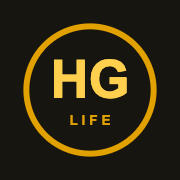
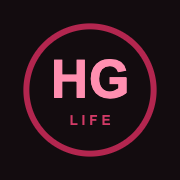
LIFE HG: cor vermelho vinho

diff --git a/life/index.html b/life/index.html
@@ -4,7 +4,7 @@
 <meta charset="utf-8">
 <meta name="viewport" content="width=device-width,initial-scale=1,viewport-fit=cover">
 <title>LIFE HG</title>
-<meta name="theme-color" content="#16150f">
+<meta name="theme-color" content="#130c0f">
 <meta name="apple-mobile-web-app-capable" content="yes">
 <meta name="apple-mobile-web-app-status-bar-style" content="black-translucent">
 <meta name="apple-mobile-web-app-title" content="LIFE HG">
@@ -16,21 +16,21 @@
 <style>
 /* LIFE HG — a sede da vida do Lucas: agenda e dinheiro num só lugar.
    Preto quente com dourado (a cor da sala LIFE HG no escritório), cartões escuros e números grandes; fonte Outfit. */
-:root{--bg:#16150f;--bg2:#1f1d16;--card:#25231b;--card2:#2e2b21;--line:#3a3628;--ink:#f6f1e3;--mut:#b4ab92;--gold:#e1a100;--gold2:#ffcf4d;--grn:#4fd18b;--red:#ff6b6b;--blue:#6fb6ff;--safe-b:env(safe-area-inset-bottom);--safe-t:env(safe-area-inset-top);color-scheme:dark}
+:root{--bg:#130c0f;--bg2:#1b1115;--card:#22161b;--card2:#2c1d23;--line:#3d2730;--ink:#f8eef1;--mut:#b99aa4;--gold:#9e2449;--gold2:#ff8fb0;--grn:#4fd18b;--red:#ff6b6b;--blue:#6fb6ff;--safe-b:env(safe-area-inset-bottom);--safe-t:env(safe-area-inset-top);color-scheme:dark}
 *{box-sizing:border-box;min-width:0;-webkit-tap-highlight-color:transparent}
 html,body{margin:0;background:var(--bg);color:var(--ink);font:16px/1.45 Outfit,system-ui,sans-serif}
 body{min-height:100vh;padding-bottom:calc(84px + var(--safe-b))}
 button,input,select,textarea{font:inherit;color:inherit}
 button{cursor:pointer}
-.top{position:sticky;top:0;z-index:20;background:linear-gradient(var(--bg) 70%,#16150f00);padding:calc(12px + var(--safe-t)) 18px 10px;display:flex;align-items:center;justify-content:space-between;gap:10px}
-.brand{font-weight:800;letter-spacing:.14em;font-size:15px;color:var(--gold)}
+.top{position:sticky;top:0;z-index:20;background:linear-gradient(var(--bg) 70%,#130c0f00);padding:calc(12px + var(--safe-t)) 18px 10px;display:flex;align-items:center;justify-content:space-between;gap:10px}
+.brand{font-weight:800;letter-spacing:.14em;font-size:15px;color:var(--gold2)}
 .brand small{display:block;letter-spacing:0;font-weight:500;color:var(--mut);font-size:13px}
 .ib{width:42px;height:42px;border-radius:14px;border:1px solid var(--line);background:var(--card);display:grid;place-items:center;font-size:18px}
 main{padding:0 16px;max-width:720px;margin:0 auto}
 h2{font-size:22px;margin:18px 2px 10px;font-weight:700}
 h3{font-size:13px;margin:22px 2px 8px;color:var(--mut);font-weight:600;letter-spacing:.06em;text-transform:uppercase}
 .card{background:var(--card);border:1px solid var(--line);border-radius:20px;padding:16px}
-.hero{background:radial-gradient(120% 140% at 0% 0%,#4a3a0e 0%,#2a2414 45%,#1f1d16 100%);border-color:#5a4714}
+.hero{background:radial-gradient(120% 140% at 0% 0%,#5a1530 0%,#2e1520 45%,#1b1115 100%);border-color:#6a1d3a}
 .big{font-size:clamp(30px,9vw,40px);font-weight:700;line-height:1.05;letter-spacing:-.01em;white-space:nowrap}
 .lbl{color:var(--mut);font-size:13px}
 .row{display:flex;gap:10px;align-items:center}
@@ -46,29 +46,29 @@ h3{font-size:13px;margin:22px 2px 8px;color:var(--mut);font-weight:600;letter-sp
 .it .vl{font-weight:600;white-space:nowrap;text-align:right}
 .it .vl small{display:block;font-weight:400;color:var(--mut);font-size:12px}
 .chip{display:inline-flex;align-items:center;gap:6px;border:1px solid var(--line);background:var(--card);border-radius:999px;padding:7px 13px;font-size:14px;white-space:nowrap}
-.chip[aria-pressed=true]{background:var(--gold);color:#16150f;border-color:var(--gold);font-weight:600}
+.chip[aria-pressed=true]{background:var(--gold);color:#fff;border-color:var(--gold);font-weight:600}
 .chips{display:flex;gap:8px;overflow-x:auto;padding:2px 0 6px;scrollbar-width:none}
 .chips::-webkit-scrollbar{display:none}
 .btn{border:0;border-radius:14px;padding:0 16px;min-height:46px;font-weight:600;background:var(--card2);display:inline-flex;align-items:center;justify-content:center;gap:6px}
-.btn.pri{background:var(--gold);color:#16150f}.btn.sm{min-height:34px;padding:0 12px;font-size:14px;border-radius:10px}.btn.w{width:100%}
+.btn.pri{background:var(--gold);color:#fff}.btn.sm{min-height:34px;padding:0 12px;font-size:14px;border-radius:10px}.btn.w{width:100%}
 .btn.dan{background:#3a1f1f;color:var(--red)}
 .bar{height:8px;border-radius:9px;background:var(--card2);overflow:hidden}.bar i{display:block;height:100%;border-radius:9px;background:var(--gold)}
 .bar i.over{background:var(--red)}
 .tag{font-size:12px;padding:2px 8px;border-radius:999px;background:var(--card2);color:var(--mut);white-space:nowrap}
-.tag.red{background:#4a2020;color:#ffb3b3}.tag.amb{background:#4a3a10;color:var(--gold2)}.tag.ok{background:#173a28;color:var(--grn)}
+.tag.red{background:#4a2020;color:#ffb3b3}.tag.amb{background:#4a3a10;color:#ffcf4d}.tag.ok{background:#173a28;color:var(--grn)}
 .empty{color:var(--mut);font-size:14px;padding:14px;text-align:center;border:1px dashed var(--line);border-radius:16px}
-nav.tabs{position:fixed;left:0;right:0;bottom:0;z-index:30;background:#16150fee;backdrop-filter:blur(12px);border-top:1px solid var(--line);display:grid;grid-template-columns:repeat(5,1fr);padding:6px 6px calc(6px + var(--safe-b))}
+nav.tabs{position:fixed;left:0;right:0;bottom:0;z-index:30;background:#130c0fee;backdrop-filter:blur(12px);border-top:1px solid var(--line);display:grid;grid-template-columns:repeat(5,1fr);padding:6px 6px calc(6px + var(--safe-b))}
 nav.tabs button{border:0;background:none;color:var(--mut);display:flex;flex-direction:column;align-items:center;gap:2px;font-size:11px;padding:6px 0;border-radius:12px}
 nav.tabs button span{font-size:20px;line-height:1}
 nav.tabs button[aria-current=page]{color:var(--gold2)}
-.fab{position:fixed;right:18px;bottom:calc(92px + var(--safe-b));z-index:31;width:58px;height:58px;border-radius:20px;border:0;background:var(--gold);color:#16150f;font-size:30px;box-shadow:0 10px 30px #0008}
+.fab{position:fixed;right:18px;bottom:calc(92px + var(--safe-b));z-index:31;width:58px;height:58px;border-radius:20px;border:0;background:var(--gold);color:#fff;font-size:30px;box-shadow:0 10px 30px #0008}
 /* calendário */
 .cal{display:grid;grid-template-columns:repeat(7,1fr);gap:4px;text-align:center}
 .cal .wd{font-size:12px;color:var(--mut);padding:4px 0}
 .cal button{border:0;background:none;border-radius:12px;padding:7px 0 9px;position:relative;font-size:15px}
 .cal button.out{color:#6d6656}
 .cal button.today{color:var(--gold2);font-weight:700}
-.cal button[aria-pressed=true]{background:var(--gold);color:#16150f;font-weight:700}
+.cal button[aria-pressed=true]{background:var(--gold);color:#fff;font-weight:700}
 .cal .dots{position:absolute;left:0;right:0;bottom:3px;display:flex;justify-content:center;gap:2px}
 .cal .dots i{width:4px;height:4px;border-radius:2px;background:var(--gold2)}
 .cal .dots i.r{background:var(--red)}.cal .dots i.b{background:var(--blue)}
@@ -87,9 +87,9 @@ textarea.in{min-height:76px}
 .seg button[aria-pressed=true]{background:var(--card2);color:var(--ink);font-weight:600}
 .sw{display:flex;align-items:center;justify-content:space-between;gap:10px;margin-top:14px;font-size:15px}
 .sw input{width:48px;height:28px;accent-color:var(--gold)}
-.toast{position:fixed;left:50%;bottom:calc(164px + var(--safe-b));transform:translateX(-50%);background:var(--ink);color:#16150f;padding:10px 16px;border-radius:14px;font-weight:600;z-index:60;max-width:90vw;text-align:center}
+.toast{position:fixed;left:50%;bottom:calc(164px + var(--safe-b));transform:translateX(-50%);background:var(--ink);color:#130c0f;padding:10px 16px;border-radius:14px;font-weight:600;z-index:60;max-width:90vw;text-align:center}
 .login{max-width:420px;margin:12vh auto 0;padding:0 20px}
-.login .logo{font-size:44px;font-weight:800;letter-spacing:.12em;color:var(--gold)}
+.login .logo{font-size:44px;font-weight:800;letter-spacing:.12em;color:var(--gold2)}
 :focus-visible{outline:2px solid var(--gold2);outline-offset:2px}
 .hide{display:none!important}
 .agw{display:grid;grid-template-columns:minmax(0,1fr);gap:0 22px}
@@ -138,7 +138,7 @@ const safe=fn=>async(...a)=>{try{return await fn(...a)}catch(e){console.error(e)
 const CAT0=[['Mercado','🛒','#4fd18b',],['Restaurantes','🍔','#ff9f43'],['Transporte','⛽','#6fb6ff'],['Casa','🏠','#c9a227'],['Contas fixas','💡','#ffcf4d'],['Saúde','💊','#ff6b6b'],['Lazer','🎉','#b388ff'],['Compras','🛍','#ff7eb6'],['Educação','📚','#4dd0e1'],['Assinaturas','📺','#9aa5b1'],['Carro e moto','🏍','#e4572e'],['Outros','📦','#8d8a80']];
 const CATR=[['Salário','💼','#4fd18b'],['UKA RENTALS','🚗','#1d6fe0'],['Extras','💰','#ffcf4d']];
 async function seed(){if(!S.cat.length){const{data,error}=await sb.from(T.cat).insert([...CAT0.map(([n,i,c])=>({nome:n,icone:i,cor:c,tipo:'despesa'})),...CATR.map(([n,i,c])=>({nome:n,icone:i,cor:c,tipo:'receita'}))]).select();if(!error)S.cat=data}
- if(!S.ct.length){try{await ins('ct',{nome:'Conta principal',tipo:'corrente',saldo_inicial:0,cor:'#e1a100'})}catch(e){}}}
+ if(!S.ct.length){try{await ins('ct',{nome:'Conta principal',tipo:'corrente',saldo_inicial:0,cor:'#c2335f'})}catch(e){}}}
 
 /* ---------------- regras de dinheiro ---------------- */
 const cat=id=>S.cat.find(c=>c.id===id),conta=id=>S.ct.find(c=>c.id===id),cartao=id=>S.cc.find(c=>c.id===id);
@@ -186,15 +186,15 @@ const icCat=l=>l.tipo==='transferencia'?'🔁':l.tipo==='fatura'?'💳':(cat(l.c
 function lanItem(l){const c=cat(l.categoria_id),onde=l.cartao_id?'💳 '+((cartao(l.cartao_id)||{}).nome||'Cartão')+(l.parcelas>1?` · ${l.parcela}/${l.parcelas}`:''):l.tipo==='transferencia'?((conta(l.conta_id)||{}).nome||'')+' → '+((conta(l.conta_destino_id)||{}).nome||''):((conta(l.conta_id)||{}).nome||'');
  const sinal=l.tipo==='receita'?'pos':l.tipo==='despesa'?'neg':'';
  return`<button class="it" data-lan="${l.id}"><span class="ic" style="background:${(c&&c.cor||'#3a3628')}33">${icCat(l)}</span><span class="tx">${esc(l.descricao||(c&&c.nome)||'Lançamento')}<small>${esc(onde)}${l.pago||l.cartao_id?'':' · <span class="neg">a pagar</span>'}</small></span><span class="vl ${sinal}">${l.tipo==='despesa'?'− ':l.tipo==='receita'?'+ ':''}${brl(l.valor)}<small>${fdShort(l.data)}</small></span></button>`}
-function evItem(o){const e=o.e;return`<button class="it ev" style="--c:${esc(e.cor||'#e1a100')}" data-ev="${e.id}"><span class="ic">📅</span><span class="tx">${esc(e.titulo)}<small>${e.dia_todo?'Dia todo':hm(o.ini)+(o.fim?' – '+hm(o.fim):'')}${e.local?' · '+esc(e.local):''}${e.repetir&&e.repetir!=='nao'?' · 🔁':''}</small></span><span class="vl"><small>${o.day===TODAY()?'hoje':o.day===addD(TODAY(),1)?'amanhã':fdShort(o.day)}</small></span></button>`}
-function tarItem(t){const atr=t.prazo&&t.prazo<TODAY()&&!t.feito;return`<label class="it"><input type="checkbox" data-tar="${t.id}" ${t.feito?'checked':''} style="width:22px;height:22px;accent-color:#e1a100"><span class="tx" style="${t.feito?'text-decoration:line-through;opacity:.55':''}">${esc(t.titulo)}<small>${t.prazo?(atr?'<span class="neg">atrasada · </span>':'')+(t.prazo===TODAY()?'hoje':fdShort(t.prazo)):'sem prazo'}</small></span><button class="btn sm" data-edtar="${t.id}" aria-label="Editar tarefa">✎</button></label>`}
+function evItem(o){const e=o.e;return`<button class="it ev" style="--c:${esc(e.cor||'#c2335f')}" data-ev="${e.id}"><span class="ic">📅</span><span class="tx">${esc(e.titulo)}<small>${e.dia_todo?'Dia todo':hm(o.ini)+(o.fim?' – '+hm(o.fim):'')}${e.local?' · '+esc(e.local):''}${e.repetir&&e.repetir!=='nao'?' · 🔁':''}</small></span><span class="vl"><small>${o.day===TODAY()?'hoje':o.day===addD(TODAY(),1)?'amanhã':fdShort(o.day)}</small></span></button>`}
+function tarItem(t){const atr=t.prazo&&t.prazo<TODAY()&&!t.feito;return`<label class="it"><input type="checkbox" data-tar="${t.id}" ${t.feito?'checked':''} style="width:22px;height:22px;accent-color:#c2335f"><span class="tx" style="${t.feito?'text-decoration:line-through;opacity:.55':''}">${esc(t.titulo)}<small>${t.prazo?(atr?'<span class="neg">atrasada · </span>':'')+(t.prazo===TODAY()?'hoje':fdShort(t.prazo)):'sem prazo'}</small></span><button class="btn sm" data-edtar="${t.id}" aria-label="Editar tarefa">✎</button></label>`}
 function pagarItem(p){const d=diff(TODAY(),p.data),tg=d<0?`<span class="tag red">venceu há ${-d}d</span>`:d===0?'<span class="tag amb">hoje</span>':d<=3?`<span class="tag amb">em ${d}d</span>`:`<span class="tag">${fdShort(p.data)}</span>`;
  return`<div class="it"><span class="ic">${p.ic}</span><span class="tx">${esc(p.nome)}<small>${tg}</small></span><span class="vl">${brl(p.valor)}<br><button class="btn sm pri" style="margin-top:4px" ${p.k==='lan'?`data-pagar="${p.l.id}"`:`data-pagfat="${p.c.id}|${p.f.ym}"`}>Paguei</button></span></div>`}
 
 function vHoje(){const h=new Date().getHours(),nome=(me&&me.email||'').startsWith('lucas')?'Lucas':'';const ym=TODAY().slice(0,7),R=resumoMes(ym),ag=agendaDe(TODAY(),addD(TODAY(),2)).filter(o=>o.e.dia_todo||o.ini>=new Date(Date.now()-36e5)).slice(0,5);
  const pg=aPagar(addD(TODAY(),7)),tar=S.tar.filter(t=>!t.feito&&(!t.prazo||t.prazo<=addD(TODAY(),1))).slice(0,6),G=gastoCat(ym),orc=S.cat.filter(c=>c.tipo==='despesa'&&+c.orcamento>0).map(c=>({c,g:G[c.id]||0,p:(G[c.id]||0)/+c.orcamento})).sort((a,b)=>b.p-a.p).slice(0,3);
  const totPg=pg.reduce((s,p)=>s+p.valor,0);
- return`<h2>${h<12?'Bom dia':h<18?'Boa tarde':'Boa noite'}${nome?', '+nome:''}</h2>
+ return`<h2>${h<5?'Boa noite':h<12?'Bom dia':h<18?'Boa tarde':'Boa noite'}${nome?', '+nome:''}</h2>
  <div class="card hero"><div class="lbl">Saldo nas contas</div><div class="big ${saldoTotal()<0?'neg':''}">${brl(saldoTotal())}</div>
   <div class="grid2" style="margin-top:12px"><div class="mini"><span class="lbl">Entrou em ${MES[+ym.slice(5)-1]}</span><b class="pos">${brl(R.rec)}</b></div><div class="mini"><span class="lbl">Gastou em ${MES[+ym.slice(5)-1]}</span><b class="neg">${brl(R.desp)}</b></div></div>
   ${totPg?`<div class="row sp" style="margin-top:12px"><span class="lbl">A pagar nos próximos 7 dias</span><b class="gold">${brl(totPg)}</b></div>`:''}</div>
@@ -221,16 +221,16 @@ function vDinheiro(){const R=resumoMes(month),G=gastoCat(month),cats=Object.entr
  return`<div class="row sp" style="margin-top:14px"><button class="ib" data-mes="-1" aria-label="Mês anterior">‹</button><h2 style="margin:0;text-transform:capitalize">${mLabel(month)}</h2><button class="ib" data-mes="1" aria-label="Próximo mês">›</button></div>
  <div class="card" style="margin-top:12px"><div class="grid2"><div><span class="lbl">Entradas</span><div class="pos" style="font-size:22px;font-weight:700">${brl(R.rec)}</div></div><div><span class="lbl">Saídas</span><div class="neg" style="font-size:22px;font-weight:700">${brl(R.desp)}</div></div></div>
   <div class="row sp" style="margin-top:10px;border-top:1px solid var(--line);padding-top:10px"><span class="lbl">Sobra do mês</span><b class="${R.rec-R.desp<0?'neg':'pos'}" style="font-size:20px">${brl(R.rec-R.desp)}</b></div></div>
- ${cats.length?`<h3>Para onde foi o dinheiro</h3><div class="card">${cats.map(([id,v])=>{const c=cat(id)||{nome:'Sem categoria',icone:'📦',cor:'#8d8a80'};return`<div style="margin:4px 0 10px"><div class="row sp"><span>${c.icone||''} ${esc(c.nome)}</span><b>${brl(v)}</b></div><div class="bar" style="margin-top:5px"><i style="width:${(v/mx*100).toFixed(0)}%;background:${esc(c.cor||'#e1a100')}"></i></div></div>`}).join('')}</div>`:''}
+ ${cats.length?`<h3>Para onde foi o dinheiro</h3><div class="card">${cats.map(([id,v])=>{const c=cat(id)||{nome:'Sem categoria',icone:'📦',cor:'#8d8a80'};return`<div style="margin:4px 0 10px"><div class="row sp"><span>${c.icone||''} ${esc(c.nome)}</span><b>${brl(v)}</b></div><div class="bar" style="margin-top:5px"><i style="width:${(v/mx*100).toFixed(0)}%;background:${esc(c.cor||'#c2335f')}"></i></div></div>`}).join('')}</div>`:''}
  <h3>Lançamentos</h3><div class="chips">${[['tudo','Tudo'],['desp','Gastos'],['rec','Entradas'],['cartao','Cartão'],['apagar','A pagar']].map(([k,t])=>`<button class="chip" data-filt="${k}" aria-pressed="${filt===k}">${t}</button>`).join('')}</div>
  <div class="list">${L.map(lanItem).join('')||'<div class="empty">Nenhum lançamento. Toque no + para lançar.</div>'}</div>`}
 
 function vCarteira(){const pg=aPagar(),rc=aReceber();
  return`<h2>Carteira</h2><div class="card hero"><div class="lbl">Saldo total</div><div class="big">${brl(saldoTotal())}</div></div>
  <div class="row sp"><h3>Contas</h3><button class="btn sm" data-novo="ct">+ Conta</button></div>
- <div class="list">${S.ct.filter(c=>!c.arquivada).map(c=>`<button class="it" data-ct="${c.id}"><span class="ic" style="background:${esc(c.cor||'#e1a100')}33">🏦</span><span class="tx">${esc(c.nome)}<small>${{corrente:'Conta corrente',poupanca:'Poupança',carteira:'Dinheiro',investimento:'Investimento'}[c.tipo]||''}</small></span><span class="vl ${saldoConta(c)<0?'neg':''}">${brl(saldoConta(c))}</span></button>`).join('')}</div>
+ <div class="list">${S.ct.filter(c=>!c.arquivada).map(c=>`<button class="it" data-ct="${c.id}"><span class="ic" style="background:${esc(c.cor||'#c2335f')}33">🏦</span><span class="tx">${esc(c.nome)}<small>${{corrente:'Conta corrente',poupanca:'Poupança',carteira:'Dinheiro',investimento:'Investimento'}[c.tipo]||''}</small></span><span class="vl ${saldoConta(c)<0?'neg':''}">${brl(saldoConta(c))}</span></button>`).join('')}</div>
  <div class="row sp"><h3>Cartões</h3><button class="btn sm" data-novo="cc">+ Cartão</button></div>
- <div class="list">${S.cc.map(c=>{const ym=faturaDe(c,TODAY()),f=fatura(c,ym),us=usadoCartao(c),lim=+c.limite||0;return`<button class="card" data-cc="${c.id}" style="text-align:left;width:100%;border-left:5px solid ${esc(c.cor||'#e1a100')}"><div class="row sp"><b>💳 ${esc(c.nome)}</b><span class="tag">fecha dia ${c.fecha} · vence dia ${c.vence}</span></div>
+ <div class="list">${S.cc.map(c=>{const ym=faturaDe(c,TODAY()),f=fatura(c,ym),us=usadoCartao(c),lim=+c.limite||0;return`<button class="card" data-cc="${c.id}" style="text-align:left;width:100%;border-left:5px solid ${esc(c.cor||'#c2335f')}"><div class="row sp"><b>💳 ${esc(c.nome)}</b><span class="tag">fecha dia ${c.fecha} · vence dia ${c.vence}</span></div>
    <div class="row sp" style="margin-top:8px"><span class="lbl">Fatura de ${mLabel(ym)} (vence ${fdShort(f.venc)})</span><b>${brl(f.total)}</b></div>${lim?`<div class="bar" style="margin-top:8px"><i class="${us>lim?'over':''}" style="width:${Math.min(100,us/lim*100).toFixed(0)}%"></i></div><div class="lbl" style="margin-top:4px">Usado ${brl(us)} de ${brl(lim)} · livre ${brl(Math.max(0,lim-us))}</div>`:''}</button>`}).join('')||'<div class="empty">Cadastre seus cartões para ver as faturas.</div>'}</div>
  <h3>Contas a pagar</h3><div class="list">${pg.map(pagarItem).join('')||'<div class="empty">Tudo pago. 👌</div>'}</div>
  ${rc.length?`<h3>A receber</h3><div class="list">${rc.map(l=>`<div class="it"><span class="ic">${icCat(l)}</span><span class="tx">${esc(l.descricao||(cat(l.categoria_id)||{}).nome||'Receita')}<small>${fdShort(l.data)}</small></span><span class="vl pos">${brl(l.valor)}<br><button class="btn sm pri" style="margin-top:4px" data-pagar="${l.id}">Recebi</button></span></div>`).join('')}</div>`:''}
@@ -242,7 +242,7 @@ function vMetas(){const ym=TODAY().slice(0,7),G=gastoCat(ym),cs=S.cat.filter(c=>
  <div class="row sp"><h3>Metas de economia</h3><button class="btn sm" data-novo="meta">+ Meta</button></div>
  <div class="list">${S.meta.map(m=>{const p=+m.alvo?(+m.guardado/+m.alvo):0,falta=Math.max(0,+m.alvo-+m.guardado),meses=m.prazo?Math.max(1,(+m.prazo.slice(0,4)-+ym.slice(0,4))*12+(+m.prazo.slice(5,7)-+ym.slice(5,7))):0;
    return`<button class="card" data-meta="${m.id}" style="text-align:left;width:100%"><div class="row sp"><b>🎯 ${esc(m.nome)}</b><span class="lbl">${(p*100).toFixed(0)}%</span></div><div class="row sp" style="margin-top:6px"><span class="gold" style="font-size:20px;font-weight:700">${brl(m.guardado)}</span><span class="lbl">de ${brl(m.alvo)}</span></div>
-   <div class="bar" style="margin-top:8px"><i style="width:${Math.min(100,p*100).toFixed(0)}%;background:${esc(m.cor||'#e1a100')}"></i></div><div class="lbl" style="margin-top:6px">${falta?`Faltam ${brl(falta)}${meses?` · guarde ${brl(falta/meses)} por mês até ${fdShort(m.prazo)}`:''}`:'Meta alcançada! 🎉'}</div></button>`}).join('')||'<div class="empty">Crie uma meta: viagem, reserva de emergência, moto nova…</div>'}</div>
+   <div class="bar" style="margin-top:8px"><i style="width:${Math.min(100,p*100).toFixed(0)}%;background:${esc(m.cor||'#c2335f')}"></i></div><div class="lbl" style="margin-top:6px">${falta?`Faltam ${brl(falta)}${meses?` · guarde ${brl(falta/meses)} por mês até ${fdShort(m.prazo)}`:''}`:'Meta alcançada! 🎉'}</div></button>`}).join('')||'<div class="empty">Crie uma meta: viagem, reserva de emergência, moto nova…</div>'}</div>
  <h3>Orçamento de ${MES[+ym.slice(5)-1]}</h3>${totO?`<div class="card" style="margin-bottom:10px"><div class="row sp"><span>Total</span><span class="lbl">${brl(totG)} de ${brl(totO)}</span></div><div class="bar" style="margin-top:6px"><i class="${totG>totO?'over':''}" style="width:${Math.min(100,totG/totO*100).toFixed(0)}%"></i></div></div>`:''}
  <div class="card">${cs.map(c=>{const g=G[c.id]||0,o=+c.orcamento||0;return`<button data-orc="${c.id}" style="all:unset;display:block;width:100%;cursor:pointer;margin:4px 0 12px"><div class="row sp"><span>${c.icone||''} ${esc(c.nome)}</span><span class="lbl">${o?brl(g)+' de '+brl(o):brl(g)+' · definir limite'}</span></div>${o?`<div class="bar" style="margin-top:6px"><i class="${g>o?'over':''}" style="width:${Math.min(100,g/o*100).toFixed(0)}%"></i></div>`:''}</button>`}).join('')}</div>`}
 
@@ -305,10 +305,10 @@ function fEv(e,day){const ed=!!e;const d=e?new Date(e.inicio):new Date((day||sel
  <label class="f">Onde<input class="in" name="local" value="${esc(e&&e.local||'')}"></label>
  <div class="grid2"><label class="f">Me avisar<select class="in" name="lemb">${opt([['','Não avisar'],['0','Na hora'],['10','10 min antes'],['30','30 min antes'],['60','1 hora antes'],['120','2 horas antes'],['1440','1 dia antes']],e?(e.lembrete_min==null?'':String(e.lembrete_min)):'30')}</select></label>
  <label class="f">Repetir<select class="in" name="rep">${opt(Object.entries(REP),e?e.repetir:'nao')}</select></label></div>
- <label class="f">Cor</label><div class="chips">${['#e1a100','#4fd18b','#6fb6ff','#ff6b6b','#b388ff','#ff7eb6'].map(c=>`<button type="button" class="chip" data-cor="${c}" aria-pressed="${(e&&e.cor||'#e1a100')===c}" style="width:38px;height:38px;padding:0;background:${c};border-color:${c}" aria-label="Cor"></button>`).join('')}</div>
+ <label class="f">Cor</label><div class="chips">${['#c2335f','#4fd18b','#6fb6ff','#ff6b6b','#b388ff','#ff7eb6'].map(c=>`<button type="button" class="chip" data-cor="${c}" aria-pressed="${(e&&e.cor||'#c2335f')===c}" style="width:38px;height:38px;padding:0;background:${c};border-color:${c}" aria-label="Cor"></button>`).join('')}</div>
  <label class="f">Anotações<textarea class="in" name="notas">${esc(e&&e.notas||'')}</textarea></label>
  <button class="btn pri w" style="margin-top:16px">Salvar</button>${ed?'<button type="button" class="btn dan w" style="margin-top:8px" data-delev>Excluir</button>':''}</form>`,(root,close)=>{
-  const f=root.querySelector('form');let cor=e&&e.cor||'#e1a100';const tg=()=>root.querySelector('#horas').classList.toggle('hide',f.todo.checked);tg();f.todo.onchange=tg;
+  const f=root.querySelector('form');let cor=e&&e.cor||'#c2335f';const tg=()=>root.querySelector('#horas').classList.toggle('hide',f.todo.checked);tg();f.todo.onchange=tg;
   root.querySelectorAll('[data-cor]').forEach(b=>b.onclick=()=>{cor=b.dataset.cor;root.querySelectorAll('[data-cor]').forEach(x=>x.setAttribute('aria-pressed',x===b))});
   const de=root.querySelector('[data-delev]');if(de)de.onclick=safe(async()=>{if(!de.dataset.ok){de.dataset.ok=1;de.textContent='Toque de novo para excluir';return}await del('ev',e.id);close();render();toast('Excluído')});
   f.onsubmit=safe(async ev=>{ev.preventDefault();const dia=f.dia.value||TODAY(),ini=new Date(dia+'T'+(f.todo.checked?'00:00':f.h1.value||'09:00')+':00'),fm=f.todo.checked?null:new Date(dia+'T'+(f.h2.value||f.h1.value)+':00');
@@ -328,13 +328,13 @@ function fCt(c){const ed=!!c;sheet(`<form><div class="row sp"><b style="font-siz
  ${ed?`<p class="lbl">Saldo atual: ${brl(saldoConta(c))}. Para acertar, ajuste o saldo inicial.</p>`:''}
  <button class="btn pri w" style="margin-top:16px">Salvar</button>${ed?'<button type="button" class="btn dan w" style="margin-top:8px" data-arq>Arquivar conta</button>':''}</form>`,(root,close)=>{const f=root.querySelector('form');
  const a=root.querySelector('[data-arq]');if(a)a.onclick=safe(async()=>{await upd('ct',c.id,{arquivada:true});close();render()});
- f.onsubmit=safe(async e=>{e.preventDefault();const o={nome:f.nome.value.trim(),tipo:f.tipo.value,saldo_inicial:parseMoney(f.saldo.value)};if(ed)await upd('ct',c.id,o);else await ins('ct',{...o,cor:'#e1a100'});close();render();toast('Salvo ✓')})})}
+ f.onsubmit=safe(async e=>{e.preventDefault();const o={nome:f.nome.value.trim(),tipo:f.tipo.value,saldo_inicial:parseMoney(f.saldo.value)};if(ed)await upd('ct',c.id,o);else await ins('ct',{...o,cor:'#c2335f'});close();render();toast('Salvo ✓')})})}
 
 function fCc(c){const ed=!!c;sheet(`<form><div class="row sp"><b style="font-size:18px">${ed?'Cartão':'Novo cartão'}</b><button type="button" class="btn sm" data-x>Fechar</button></div>
  <label class="f">Nome<input class="in" name="nome" required value="${esc(c?c.nome:'')}" placeholder="Ex.: Nubank, Itaú Black"></label>
  <div class="grid2"><label class="f">Dia que fecha<input class="in" type="number" min="1" max="31" name="fecha" value="${c?c.fecha:1}"></label><label class="f">Dia que vence<input class="in" type="number" min="1" max="31" name="vence" value="${c?c.vence:10}"></label></div>
  <label class="f">Limite<input class="in" name="limite" inputmode="decimal" value="${c?String(c.limite).replace('.',','):''}" placeholder="0,00"></label>
- <label class="f">Cor</label><div class="chips">${['#8a05be','#ec7000','#cc092f','#1d1e21','#e1a100','#1d6fe0'].map(k=>`<button type="button" class="chip" data-cor="${k}" aria-pressed="${(c&&c.cor||'#8a05be')===k}" style="width:38px;height:38px;padding:0;background:${k};border-color:${k}" aria-label="Cor"></button>`).join('')}</div>
+ <label class="f">Cor</label><div class="chips">${['#8a05be','#ec7000','#cc092f','#1d1e21','#c2335f','#1d6fe0'].map(k=>`<button type="button" class="chip" data-cor="${k}" aria-pressed="${(c&&c.cor||'#8a05be')===k}" style="width:38px;height:38px;padding:0;background:${k};border-color:${k}" aria-label="Cor"></button>`).join('')}</div>
  ${ed?faturasHtml(c):''}
  <button class="btn pri w" style="margin-top:16px">Salvar</button>${ed?'<button type="button" class="btn dan w" style="margin-top:8px" data-delcc>Excluir cartão e compras</button>':''}</form>`,(root,close)=>{const f=root.querySelector('form');let cor=c&&c.cor||'#8a05be';
  root.querySelectorAll('[data-cor]').forEach(b=>b.onclick=()=>{cor=b.dataset.cor;root.querySelectorAll('[data-cor]').forEach(x=>x.setAttribute('aria-pressed',x===b))});
@@ -369,7 +369,7 @@ function fMeta(m){const ed=!!m;sheet(`<form><div class="row sp"><b style="font-s
  <button class="btn ${ed?'':'pri'} w" style="margin-top:16px">Salvar</button>${ed?'<button type="button" class="btn dan w" style="margin-top:8px" data-delmeta>Excluir meta</button>':''}</form>`,(root,close)=>{const f=root.querySelector('form');
  root.querySelectorAll('[data-g]').forEach(b=>b.onclick=safe(async()=>{const v=parseMoney(f.add.value);if(!v)return toast('Digite o valor');await upd('meta',m.id,{guardado:Math.max(0,+m.guardado+v*+b.dataset.g)});close();render();toast(+b.dataset.g>0?'Guardado 💪':'Retirado')}));
  const d=root.querySelector('[data-delmeta]');if(d)d.onclick=safe(async()=>{await del('meta',m.id);close();render()});
- f.onsubmit=safe(async e=>{e.preventDefault();const o={nome:f.nome.value.trim(),alvo:parseMoney(f.alvo.value),prazo:f.prazo.value||null};if(ed)await upd('meta',m.id,o);else await ins('meta',{...o,guardado:parseMoney(f.guardado.value),cor:'#e1a100'});close();render();toast('Salvo ✓')})})}
+ f.onsubmit=safe(async e=>{e.preventDefault();const o={nome:f.nome.value.trim(),alvo:parseMoney(f.alvo.value),prazo:f.prazo.value||null};if(ed)await upd('meta',m.id,o);else await ins('meta',{...o,guardado:parseMoney(f.guardado.value),cor:'#c2335f'});close();render();toast('Salvo ✓')})})}
 
 function fOrc(c){sheet(`<form><div class="row sp"><b style="font-size:18px">${c.icone||''} ${esc(c.nome)}</b><button type="button" class="btn sm" data-x>Fechar</button></div>
  <label class="f">Limite por mês (deixe vazio para não ter limite)<input class="in money" name="v" inputmode="decimal" value="${c.orcamento?String(c.orcamento).replace('.',','):''}"></label><button class="btn pri w" style="margin-top:16px">Salvar</button></form>`,(root,close)=>{const f=root.querySelector('form');
@@ -387,7 +387,7 @@ function fCat(c){const ed=!!c;sheet(`<form><div class="row sp"><b style="font-si
  ${segW('tipo',[['despesa','Gasto'],['receita','Entrada']],c?c.tipo:'despesa')}<div class="grid2"><label class="f">Ícone<input class="in" name="icone" value="${esc(c?c.icone:'📦')}" maxlength="4" style="text-align:center;font-size:22px"></label><label class="f">Nome<input class="in" name="nome" required value="${esc(c?c.nome:'')}"></label></div>
  <button class="btn pri w" style="margin-top:16px">Salvar</button>${ed?'<button type="button" class="btn dan w" style="margin-top:8px" data-delcat>Excluir categoria</button>':''}</form>`,(root,close)=>{const f=root.querySelector('form');wireSeg(root);
  const d=root.querySelector('[data-delcat]');if(d)d.onclick=safe(async()=>{await del('cat',c.id);close();render()});
- f.onsubmit=safe(async e=>{e.preventDefault();const o={nome:f.nome.value.trim(),icone:f.icone.value.trim()||'📦',tipo:root.querySelector('[data-seg=tipo]').dataset.val};if(ed)await upd('cat',c.id,o);else await ins('cat',{...o,cor:'#e1a100'});close();render()})})}
+ f.onsubmit=safe(async e=>{e.preventDefault();const o={nome:f.nome.value.trim(),icone:f.icone.value.trim()||'📦',tipo:root.querySelector('[data-seg=tipo]').dataset.val};if(ed)await upd('cat',c.id,o);else await ins('cat',{...o,cor:'#c2335f'});close();render()})})}
 
 function fFab(){if(tab==='agenda')return fEv(null,selDay);if(tab==='dinheiro')return fLan();if(tab==='carteira')return fLan();if(tab==='metas')return fMeta();
  const close=sheet(`<div class="row sp"><b style="font-size:18px">Adicionar</b><button type="button" class="btn sm" data-x>Fechar</button></div><div class="grid2" style="margin-top:12px">
